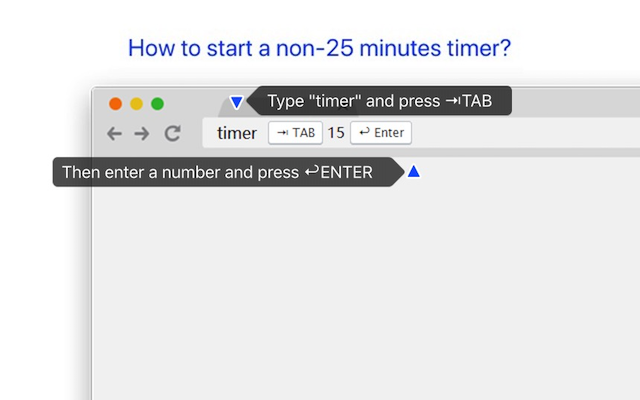
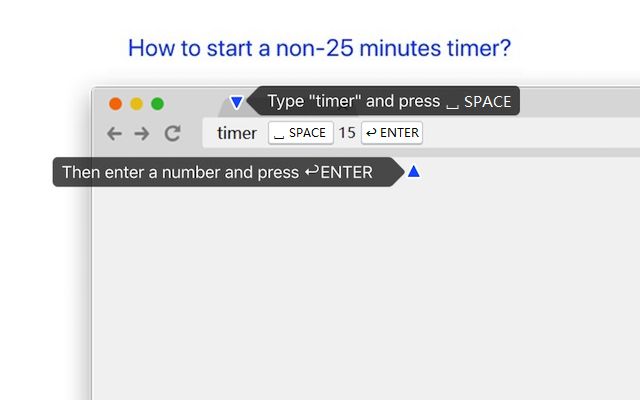
pretty options button

Changed region(s): [[0.4375, 0.3, 0.6562, 0.36], [0.6875, 0.21, 0.8125, 0.3]]

diff --git a/FirefoxExt_Timer25/Timer25/options.html b/FirefoxExt_Timer25/Timer25/options.html
@@ -24,9 +24,6 @@
             .text-blue {
                 color: CornflowerBlue;
             }
-            .text-green {
-                color: green;
-            }
             .hidden {
                 display: none;
             }
@@ -39,14 +36,19 @@
                 position: fixed;
                 bottom: 0;
                 right: 0;
+                padding: 1em;
+                margin: 1em;
+                color: white;
                 font-weight: bold;
                 font-size: 1.25em;
+                border-radius: 0.5em;
+                background-color: green;
             }
         </style>
     </head>
     <body>
         <div class="container">
-            <span id="status" class="hidden text-green"></span>
+            <span id="status" class="hidden"></span>
             <div class="session-title">
                 <span id="notifstyle__lable"></span>
             </div>

diff --git a/FirefoxExt_Timer25/Timer25/options.js b/FirefoxExt_Timer25/Timer25/options.js
@@ -89,5 +89,5 @@ document.querySelector("#shownotif__btn").addEventListener("click", function () 
     })
 })
 document.querySelector("#non25timer__btn").addEventListener("click", function () {
-    alert("Enter `timer` + space")
+    alert("Try to type `timer 5` into you address bar")
 })
